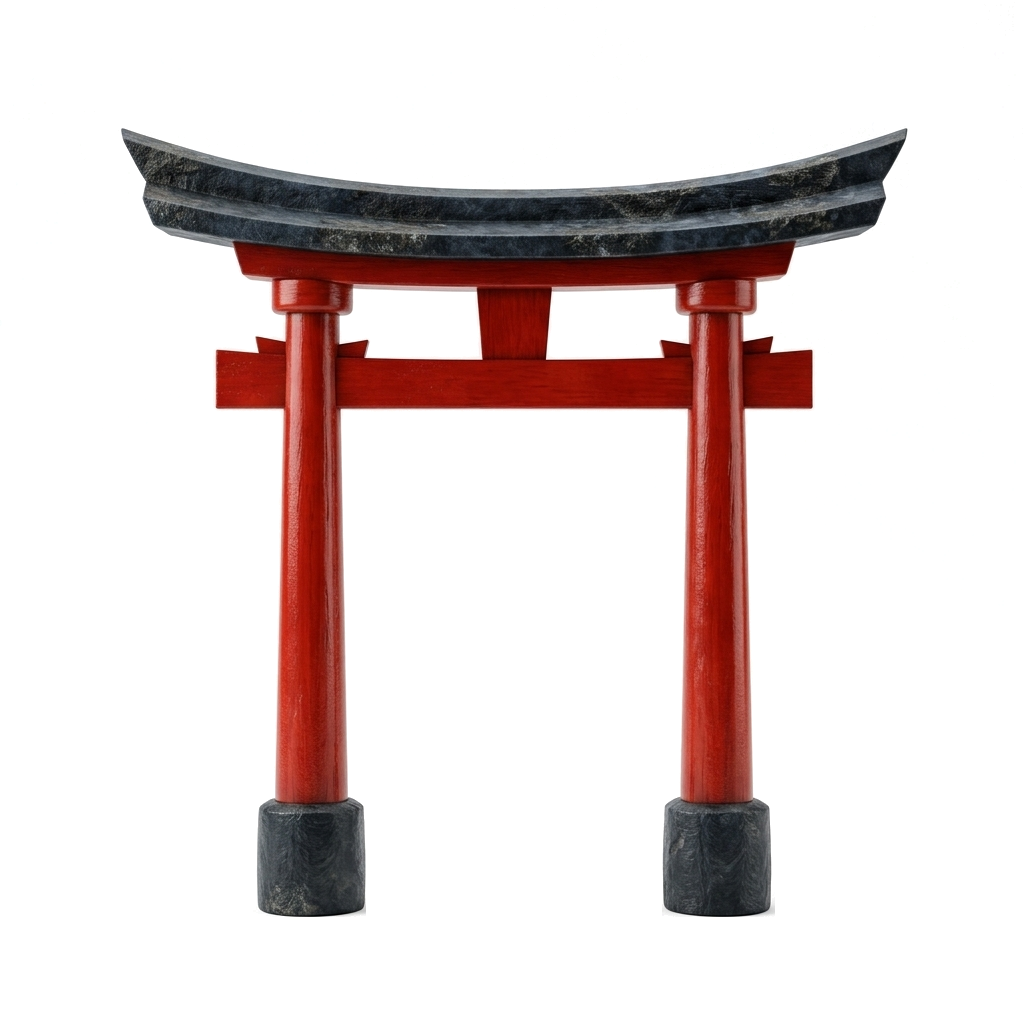
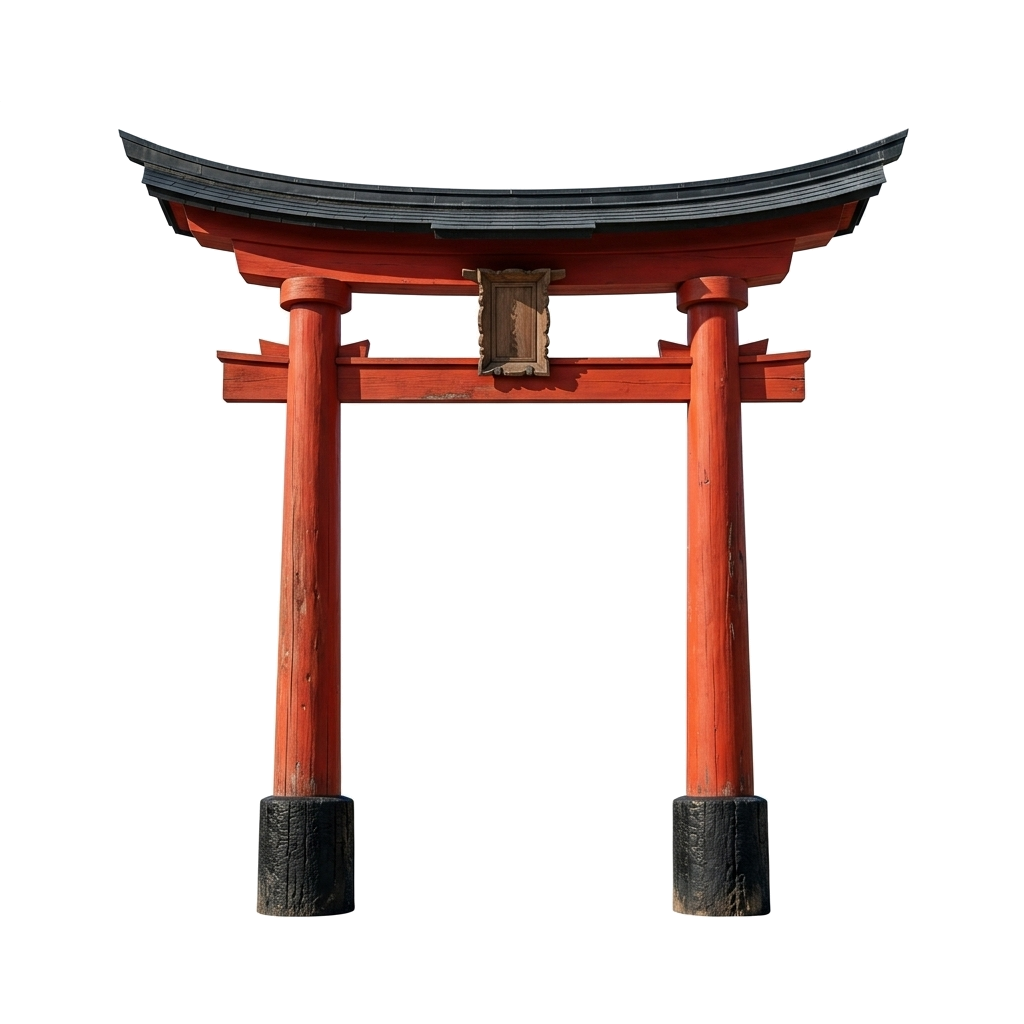
feat(portal): elevate Torii gate to photorealistic S-tier with defringed matting, monumental grounding, 13 fluid silk filaments and 13-tone chime scale

Changed region(s): [[0.0938, 0.125, 0.9062, 0.9062]]

diff --git a/index.html b/index.html
@@ -471,11 +471,12 @@
 
     /* Layer 3: Center Monumental Japanese Torii Gate with 3D Depth (Z: +40px) */
     .portal-gate-wrap{
-      position:relative;z-index:12;width:min(340px,44%);aspect-ratio:1/1;
+      position:relative;z-index:12;width:min(430px,50%);max-height:88%;aspect-ratio:1/1;
       cursor:pointer;transform-origin:center center;
       transform-style:preserve-3d;
       will-change:transform,filter;
       transition:filter .4s;
+      margin-top:14px;
     }
     .portal-gate-wrap:hover{
       filter:drop-shadow(0 0 34px rgba(223,183,108,.45)) drop-shadow(0 0 65px rgba(223,183,108,.22));
@@ -2373,7 +2374,8 @@
       // ----------------------------------------------------
       const CHIME_PENTATONIC = [
         587.33, 659.25, 783.99, 880.00, 1046.50,
-        1174.66, 1318.51, 1567.98, 1760.00, 2093.00, 2349.32
+        1174.66, 1318.51, 1567.98, 1760.00, 2093.00, 2349.32,
+        2637.02, 3135.96
       ];
 
       function playThreadChime(stringIndex, strength = 0.5, delaySec = 0) {
@@ -2790,7 +2792,7 @@
       // Golden Telemetry Threads (Fluid Hair/Silk Cloth Dynamics)
       // Floating in gate archway with upcoming destination data
       // ----------------------------------------------------
-      const NUM_THREADS = 11;
+      const NUM_THREADS = 13;
       const NODES_PER_THREAD = 24;
       let hangingThreads = [];
       const threadMouse = {
@@ -2807,12 +2809,12 @@
       function initHangingThreads(w, h) {
         hangingThreads = [];
         for (let i = 0; i < NUM_THREADS; i++) {
-          // Distributed evenly across Torii gate aperture (between inner vermilion pillars)
-          const normX = 0.365 + (i / (NUM_THREADS - 1)) * 0.270;
+          // Distributed evenly across Torii gate aperture (between inner vermilion pillars: 0.360 to 0.640)
+          const normX = 0.360 + (i / (NUM_THREADS - 1)) * 0.280;
           const anchorX = w * normX;
-          // Anchored directly underneath horizontal vermilion lintel
-          const topY = h * 0.405;
-          const totalLength = h * 0.460; // Suspended gracefully above stone plinths
+          // Anchored directly underneath horizontal vermilion lintel beam (normY = 0.396)
+          const topY = h * 0.396;
+          const totalLength = h * 0.470; // Suspended gracefully above stone pedestals
           const segmentLength = totalLength / (NODES_PER_THREAD - 1);
 
           const nodes = [];
@@ -2853,7 +2855,9 @@
           `✧ SAKURA VECTOR // STABLE`,
           `◈ LATENT DRIFT // ZERO`,
           `ᛟ ᚱ ᛒ ᛁ ᛏ ᚐ ᛚ // ᛋ ᛁ ᚾ ᚷ ᚢ ᛚ`,
-          `᚛ ᚛ 神 道 // T E L E P O R T ᚛ ᚛`
+          `᚛ ᚛ 神 道 // T E L E P O R T ᚛ ᚛`,
+          `✦ QUANTUM ENTANGLEMENT // ACTIVE`,
+          `❖ RESONANCE // 432 HZ`
         ];
         return stringData[threadIndex % stringData.length];
       }
@@ -2986,8 +2990,8 @@
         const dpr = window.devicePixelRatio || 1;
         threadsCtx.clearRect(0, 0, w, h);
 
-        const fontSize = Math.max(5.8, Math.min(8.0, Math.round(6.4 * dpr)));
-        threadsCtx.font = `500 ${fontSize}px 'Cinzel', 'Cinzel Decorative', 'DM Sans', monospace`;
+        const fontSize = Math.max(5.0, Math.min(6.8, Math.round(5.4 * dpr)));
+        threadsCtx.font = `400 ${fontSize}px 'Cinzel', 'Cinzel Decorative', 'DM Sans', monospace`;
         threadsCtx.textAlign = "center";
         threadsCtx.textBaseline = "middle";
 
@@ -3009,10 +3013,10 @@
           });
           threadsCtx.strokeStyle = isGlowing
             ? `rgba(255, 245, 215, ${glowAlpha})`
-            : "rgba(223, 183, 108, 0.28)";
-          threadsCtx.lineWidth = (isGlowing ? 1.05 : 0.55) * dpr;
+            : "rgba(223, 195, 130, 0.22)";
+          threadsCtx.lineWidth = (isGlowing ? 0.85 : 0.45) * dpr;
           threadsCtx.shadowColor = isGlowing ? "rgba(255, 230, 150, 0.85)" : "transparent";
-          threadsCtx.shadowBlur = isGlowing ? 6 * dpr : 0;
+          threadsCtx.shadowBlur = isGlowing ? 5 * dpr : 0;
           threadsCtx.stroke();
           threadsCtx.shadowBlur = 0;
 
@@ -3021,8 +3025,8 @@
           const btmNode = th.nodes[th.nodes.length - 1];
           threadsCtx.fillStyle = isGlowing ? "#fffbe6" : "#dfb76c";
           threadsCtx.beginPath();
-          threadsCtx.arc(topNode.x, topNode.y, 1.5 * dpr, 0, Math.PI * 2);
-          threadsCtx.arc(btmNode.x, btmNode.y, 1.3 * dpr, 0, Math.PI * 2);
+          threadsCtx.arc(topNode.x, topNode.y, 1.3 * dpr, 0, Math.PI * 2);
+          threadsCtx.arc(btmNode.x, btmNode.y, 1.1 * dpr, 0, Math.PI * 2);
           threadsCtx.fill();
 
           // 2. Draw tiny luxury golden letters & glyphs along the hanging thread
@@ -3050,9 +3054,9 @@
               threadsCtx.rotate(-angle);
             }
 
-            threadsCtx.shadowColor = isGlowing ? "rgba(255, 235, 170, 0.9)" : "rgba(223, 183, 108, 0.35)";
-            threadsCtx.shadowBlur = (isGlowing ? 5 : 2) * dpr * 0.5;
-            threadsCtx.fillStyle = isGlowing ? "#fffce8" : "#dfb76c";
+            threadsCtx.shadowColor = isGlowing ? "rgba(255, 235, 170, 0.9)" : "rgba(223, 183, 108, 0.25)";
+            threadsCtx.shadowBlur = (isGlowing ? 4 : 1.5) * dpr * 0.5;
+            threadsCtx.fillStyle = isGlowing ? "#fffce8" : "rgba(230, 205, 155, 0.78)";
             threadsCtx.fillText(char, 0, 0);
 
             threadsCtx.restore();
@@ -3852,10 +3856,10 @@
 
         const horizonY = h * d.horizonY;
 
-        const duneY = h * 0.90;
+        const duneY = h * 0.88;
 
         // Grounding atmospheric dunes at very bottom of viewport
-        fgCtx.fillStyle = "rgba(4, 5, 7, 0.85)";
+        fgCtx.fillStyle = "rgba(4, 5, 7, 0.88)";
         fgCtx.beginPath();
         fgCtx.moveTo(0, h);
         fgCtx.lineTo(0, duneY + 12 + fgOffY);

diff --git a/personal_brand_v4.html b/personal_brand_v4.html
@@ -471,11 +471,12 @@
 
     /* Layer 3: Center Monumental Japanese Torii Gate with 3D Depth (Z: +40px) */
     .portal-gate-wrap{
-      position:relative;z-index:12;width:min(340px,44%);aspect-ratio:1/1;
+      position:relative;z-index:12;width:min(430px,50%);max-height:88%;aspect-ratio:1/1;
       cursor:pointer;transform-origin:center center;
       transform-style:preserve-3d;
       will-change:transform,filter;
       transition:filter .4s;
+      margin-top:14px;
     }
     .portal-gate-wrap:hover{
       filter:drop-shadow(0 0 34px rgba(223,183,108,.45)) drop-shadow(0 0 65px rgba(223,183,108,.22));
@@ -2373,7 +2374,8 @@
       // ----------------------------------------------------
       const CHIME_PENTATONIC = [
         587.33, 659.25, 783.99, 880.00, 1046.50,
-        1174.66, 1318.51, 1567.98, 1760.00, 2093.00, 2349.32
+        1174.66, 1318.51, 1567.98, 1760.00, 2093.00, 2349.32,
+        2637.02, 3135.96
       ];
 
       function playThreadChime(stringIndex, strength = 0.5, delaySec = 0) {
@@ -2790,7 +2792,7 @@
       // Golden Telemetry Threads (Fluid Hair/Silk Cloth Dynamics)
       // Floating in gate archway with upcoming destination data
       // ----------------------------------------------------
-      const NUM_THREADS = 11;
+      const NUM_THREADS = 13;
       const NODES_PER_THREAD = 24;
       let hangingThreads = [];
       const threadMouse = {
@@ -2807,12 +2809,12 @@
       function initHangingThreads(w, h) {
         hangingThreads = [];
         for (let i = 0; i < NUM_THREADS; i++) {
-          // Distributed evenly across Torii gate aperture (between inner vermilion pillars)
-          const normX = 0.365 + (i / (NUM_THREADS - 1)) * 0.270;
+          // Distributed evenly across Torii gate aperture (between inner vermilion pillars: 0.360 to 0.640)
+          const normX = 0.360 + (i / (NUM_THREADS - 1)) * 0.280;
           const anchorX = w * normX;
-          // Anchored directly underneath horizontal vermilion lintel
-          const topY = h * 0.405;
-          const totalLength = h * 0.460; // Suspended gracefully above stone plinths
+          // Anchored directly underneath horizontal vermilion lintel beam (normY = 0.396)
+          const topY = h * 0.396;
+          const totalLength = h * 0.470; // Suspended gracefully above stone pedestals
           const segmentLength = totalLength / (NODES_PER_THREAD - 1);
 
           const nodes = [];
@@ -2853,7 +2855,9 @@
           `✧ SAKURA VECTOR // STABLE`,
           `◈ LATENT DRIFT // ZERO`,
           `ᛟ ᚱ ᛒ ᛁ ᛏ ᚐ ᛚ // ᛋ ᛁ ᚾ ᚷ ᚢ ᛚ`,
-          `᚛ ᚛ 神 道 // T E L E P O R T ᚛ ᚛`
+          `᚛ ᚛ 神 道 // T E L E P O R T ᚛ ᚛`,
+          `✦ QUANTUM ENTANGLEMENT // ACTIVE`,
+          `❖ RESONANCE // 432 HZ`
         ];
         return stringData[threadIndex % stringData.length];
       }
@@ -2986,8 +2990,8 @@
         const dpr = window.devicePixelRatio || 1;
         threadsCtx.clearRect(0, 0, w, h);
 
-        const fontSize = Math.max(5.8, Math.min(8.0, Math.round(6.4 * dpr)));
-        threadsCtx.font = `500 ${fontSize}px 'Cinzel', 'Cinzel Decorative', 'DM Sans', monospace`;
+        const fontSize = Math.max(5.0, Math.min(6.8, Math.round(5.4 * dpr)));
+        threadsCtx.font = `400 ${fontSize}px 'Cinzel', 'Cinzel Decorative', 'DM Sans', monospace`;
         threadsCtx.textAlign = "center";
         threadsCtx.textBaseline = "middle";
 
@@ -3009,10 +3013,10 @@
           });
           threadsCtx.strokeStyle = isGlowing
             ? `rgba(255, 245, 215, ${glowAlpha})`
-            : "rgba(223, 183, 108, 0.28)";
-          threadsCtx.lineWidth = (isGlowing ? 1.05 : 0.55) * dpr;
+            : "rgba(223, 195, 130, 0.22)";
+          threadsCtx.lineWidth = (isGlowing ? 0.85 : 0.45) * dpr;
           threadsCtx.shadowColor = isGlowing ? "rgba(255, 230, 150, 0.85)" : "transparent";
-          threadsCtx.shadowBlur = isGlowing ? 6 * dpr : 0;
+          threadsCtx.shadowBlur = isGlowing ? 5 * dpr : 0;
           threadsCtx.stroke();
           threadsCtx.shadowBlur = 0;
 
@@ -3021,8 +3025,8 @@
           const btmNode = th.nodes[th.nodes.length - 1];
           threadsCtx.fillStyle = isGlowing ? "#fffbe6" : "#dfb76c";
           threadsCtx.beginPath();
-          threadsCtx.arc(topNode.x, topNode.y, 1.5 * dpr, 0, Math.PI * 2);
-          threadsCtx.arc(btmNode.x, btmNode.y, 1.3 * dpr, 0, Math.PI * 2);
+          threadsCtx.arc(topNode.x, topNode.y, 1.3 * dpr, 0, Math.PI * 2);
+          threadsCtx.arc(btmNode.x, btmNode.y, 1.1 * dpr, 0, Math.PI * 2);
           threadsCtx.fill();
 
           // 2. Draw tiny luxury golden letters & glyphs along the hanging thread
@@ -3050,9 +3054,9 @@
               threadsCtx.rotate(-angle);
             }
 
-            threadsCtx.shadowColor = isGlowing ? "rgba(255, 235, 170, 0.9)" : "rgba(223, 183, 108, 0.35)";
-            threadsCtx.shadowBlur = (isGlowing ? 5 : 2) * dpr * 0.5;
-            threadsCtx.fillStyle = isGlowing ? "#fffce8" : "#dfb76c";
+            threadsCtx.shadowColor = isGlowing ? "rgba(255, 235, 170, 0.9)" : "rgba(223, 183, 108, 0.25)";
+            threadsCtx.shadowBlur = (isGlowing ? 4 : 1.5) * dpr * 0.5;
+            threadsCtx.fillStyle = isGlowing ? "#fffce8" : "rgba(230, 205, 155, 0.78)";
             threadsCtx.fillText(char, 0, 0);
 
             threadsCtx.restore();
@@ -3852,10 +3856,10 @@
 
         const horizonY = h * d.horizonY;
 
-        const duneY = h * 0.90;
+        const duneY = h * 0.88;
 
         // Grounding atmospheric dunes at very bottom of viewport
-        fgCtx.fillStyle = "rgba(4, 5, 7, 0.85)";
+        fgCtx.fillStyle = "rgba(4, 5, 7, 0.88)";
         fgCtx.beginPath();
         fgCtx.moveTo(0, h);
         fgCtx.lineTo(0, duneY + 12 + fgOffY);
